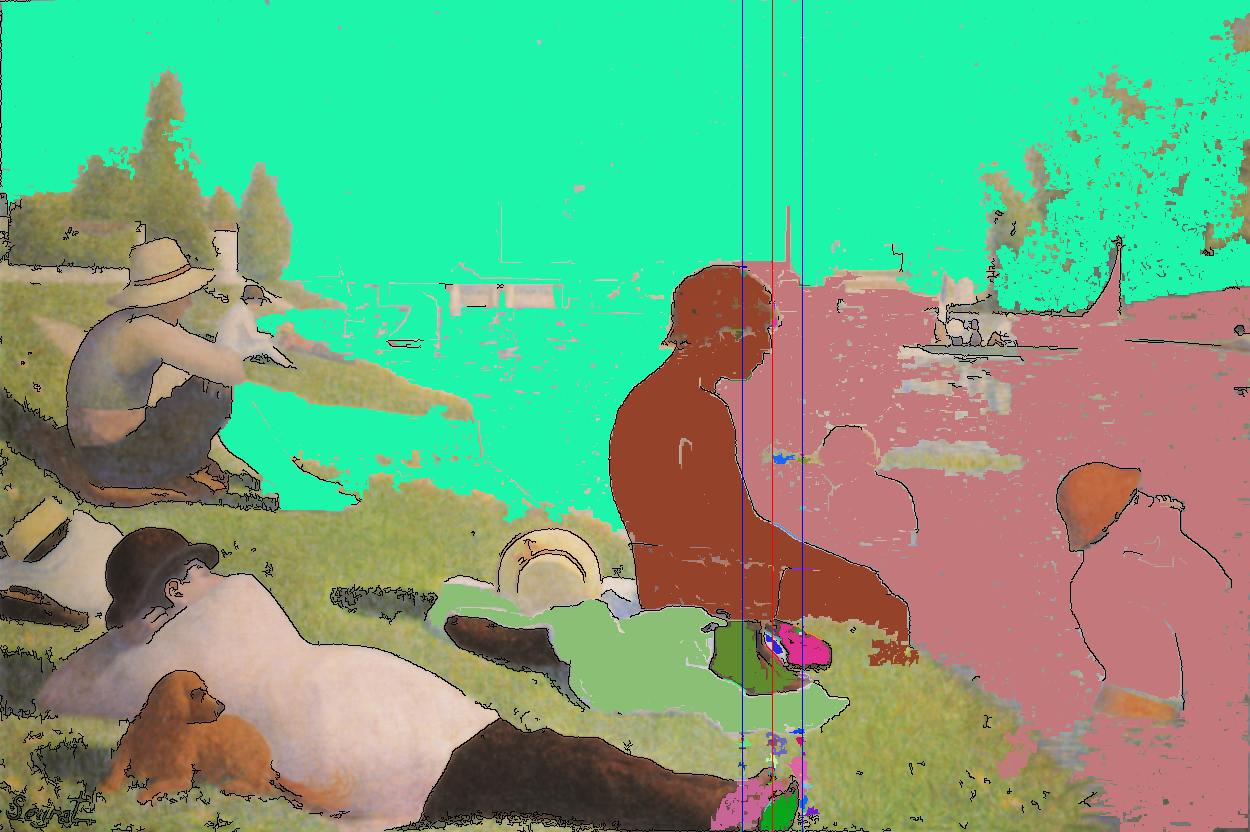
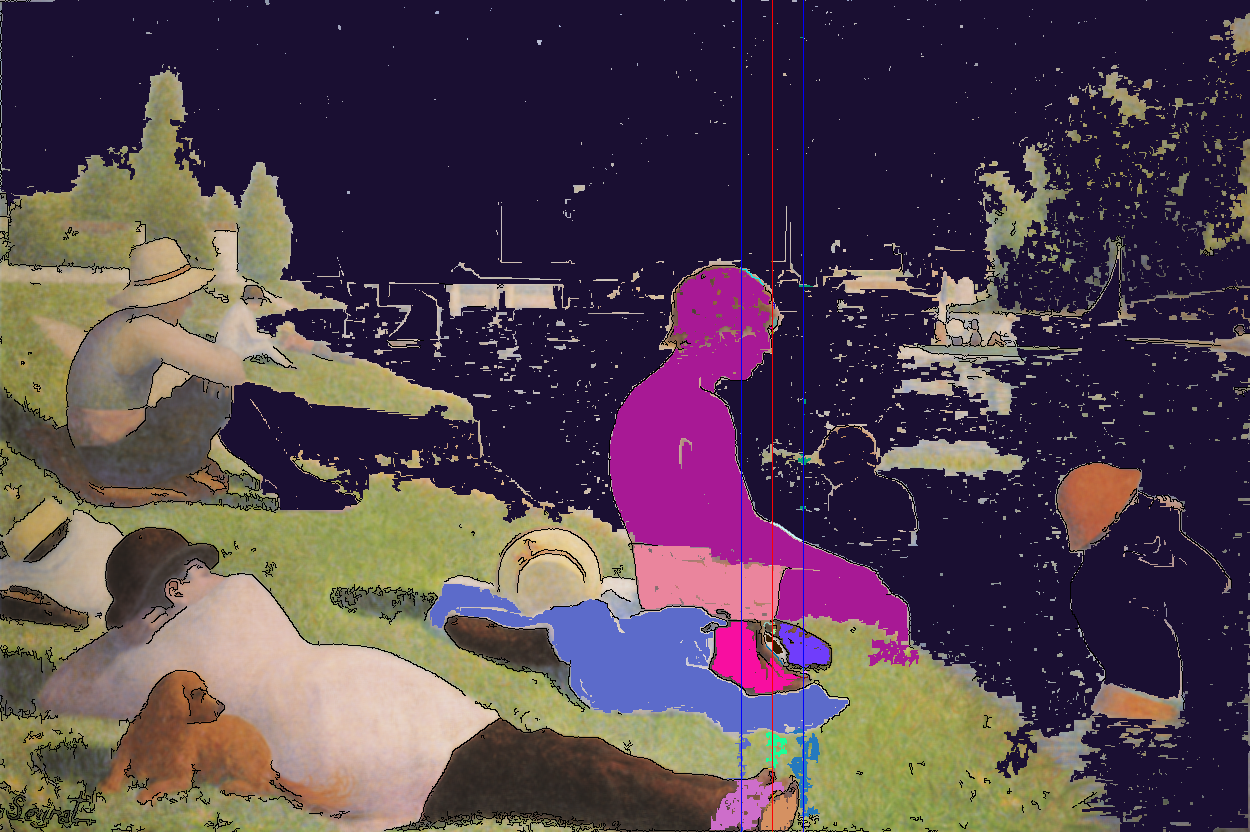
afprøvning af naive løsning, næsten færdig

diff --git a/doc/rapport/afsnit/afprovning/naive_losning.tex b/doc/rapport/afsnit/afprovning/naive_losning.tex
@@ -1,7 +1,3 @@
-test på test billeder
-test masse
-
-
 I dette sektion vil vi teste den naive løsning, ved at se om den sortere
 de rigtige regioner væk og om løsningen opføre sig på samme måde som vi
 har håbet på. Det vil vi gøre ved ført at se på nogle fabrikeret test
@@ -10,143 +6,78 @@ efter vil vi teste på malerierne for at se om den naive løsning kan
 bruges i praktisk.
   
 \subsection{Afprøvning på test billeder}
-Vi vil teste på de samme billeder som var i \ref{region_detektor_test} XX(og måske nogle flere) 
+Vi vil teste på de samme billeder som var i figur
+\ref{region_detektor_test}, samt nogle af de test billeder som blev
+brugt i forklaringen af den naive metodes, de 4 billeder som vi har valt
+at test kan se i figur \ref{naiv_detektion_test} hvor en grån kasse
+rundt om en region, betyder at den er valt til at ligge i det gyldne
+snit af den naive metode. Det første billedet \ref{naiv_blob1}, har 5
+regioner og hvor 3 af dem blev fundet af reginon detektoren, vores naive
+løsning har så sorteret baggrundens regionen og den øverste region i
+snitte vær, da de begge krydser marginer og derfor ikke overholder regel
+\ref{2.2.4, c}. Det andet billedet \ref{naiv_blob2}, er alle blevet
+sorteret vær, også den lille region som ligger lige i miden af snittet.
+Grunde til det er at den er for lille og derfor ikke overholder regel
+\ref{2.2.4, a}. I test billedet \ref{naive_hoisont1}, sortere algoritmen
+himlen fra, da den krydser margin lidt, men tager jorden med. I test
+billedet \ref{naive_masse} er der kun en af den 3 regioner som ikke
+bliver sorteret væk, grunden til at den nederste region ikke bliver
+tager med er at den ikke har en masse der er stor nok, som forklaret i
+\ref{2.2.3} og derfor ikke overholder regel \ref{2.2.4 b}. Alle de test
+billeder som vi har vist her opføre sig præcist på den måde som vi havde
+regnet med.
 
-\subsection{Afprøvning på malerier}
-Nå et billedet bearbejdes, i vores program, er der 2 naturlige steder
-hvor det vil være fornuftige at se hvad der sker. Det første er efter vi har
-iteraret hen over et af de 4 cut og fundet alle de regioner som ligger
-på eller lige omkring snittet.
-
-\begin{figure}[h!!]
-	\begin{center}
-		\includegraphics[scale=0.42,angle=0]{afsnit/afprovning/billeder/floodfillbilledet.png}
-	\end{center}
-	\caption[]{Billedet hvor vores algoritme har fundet x antal regioner, margin er sat til 0.9\% og floodfils up,dawn er sat til 4}
-	\label{ff}
-\end{figure}
-
-I billedet \ref{ff} er vær region, indtegnet med vær sin farve, og snittet
-som er beregnet ud fra er det horisontale gyldne snit som ligger mest
-til højre. Som man kan se finder algoritmen en masse regioner, hvor
-nogle af dem er ret spændene at se på, som f.eks. drengen som er farvet
-helt lyserød. Der bliver også fundet en masse regioner som ikke er
-særlige spændene, f.eks. helle baggrunden som er malet mørkelilla i
-billedet. Som man kan af billedet, er der ikke særlige mange regioner, i
-selve snittet som bliver tværet ud og kommer til at falde i et med et af
-de andre regioner i billedet, det er et godt tegn, da sammensmeltningen af
-regioner vil give en forkert fortolkning af billedet.
-
-Det andet naturlige sted at se på, er nå vi tager alle de regioner som
-blev fundet og sortere, dem fra, som ikke passer overens med vores
-definition, af om regionen ligger i snittet. De regionerne som er taget
-med, bliver inremmet i en bos og kan ses på billedet \ref{ff}. 
-
-\begin{figure}[h!!]
-	\begin{center}
-		\includegraphics[scale=0.42,angle=0]{afsnit/afprovning/billeder/boindingboxbilledet.png}
-	\end{center}
-	\caption[]{Billedet de regioner som vi har tilbage, er i en box, sammen opsætning som før}
-	\label{blob}
-\end{figure}
-
-Som man kan se er der kun 1 region tilbage, som omkredser en sko i
-billedet. Men tilgængel er alle de store regioner så som baggrunden og
-græsset ikke blevet taget med. Det kan både siges at være godt og skidt.
-det gode er at vi nu har en god ide om, hvad der bliver fundet. hvis vi
-samme liner vores beskrivelse af vores fremgangsmåde, og hvordan
-billedet ser ud. Stemmer det over ens, så vores algoritme virker skulle
-virke. Det dårlige er, at vi fjerner ret meget. F.eks. kunne drengen
-være en region som man gerne vil have med.
-I alle de billeder som vi viser her, er floodfills up,dawn værdiger sat
-til 4, dog variere margin noget, thressholdet for edge detection er sat
-til 78 og 195.
-
-\begin{figure}[h!!]
-	\begin{center}
-		\includegraphics[scale=0.40,angle=0]{afsnit/afprovning/billeder/BBcomposa.png}
-	\end{center}
-	\caption[]{billedet med 2 ragioner i snittet, margin = 2.5 \%}
-	\label{BBcomposa}
-\end{figure}
-
-\begin{figure}[h!!]
-	\begin{center}
-		\includegraphics[scale=0.40,angle=0]{afsnit/afprovning/billeder/FFcomposa.png}
-	\end{center}
-	\caption[]{De 2 ragioner som er fundet før, er 2 sorte plamasier i
-	billedet. Margin = 2.5\%}
-	\label{FFcomposa}
-\end{figure}
-
-\begin{figure}[h!!]
-	\begin{center}
-		\includegraphics[scale=0.20,angle=0]{afsnit/afprovning/billeder/nicofloodfillbilledet.png}
-	\end{center}
-	\caption[]{En stor ragion på billedet, som forkommer da dette
-	billedet er falmet med tiden eller bare ikke har høj nok farve
-	intentitet. Margin = 0.9\%}
-	\label{nicofill}
-\end{figure}
-
-\subsection{Eksampel 4}
-\begin{figure}[h!!]
-	\begin{center}
-		\includegraphics[scale=0.30,angle=0]{afsnit/afprovning/billeder/BB1annunc2.png}
-	\end{center}
-	\caption[]{Hånd, glorie og hå er fundet, samt noget ekstre klæde.
-	margin = 0.9\%}
-	\label{BB1annunc2}
-\end{figure}
-
-\begin{figure}[h!!]
-	\begin{center}
-		\includegraphics[scale=0.30,angle=0]{afsnit/afprovning/billeder/BB09crucif.png}
-	\end{center}
-	\caption[]{Svanen fundet samt skildet som er 2 ting som trader fram
-	i maleriet, margin = 2.5\%}
-	\label{BB09crucif}
-\end{figure}
-
-\begin{figure}[h!!]
-	\begin{center}
-		\includegraphics[scale=0.3,angle=0]{afsnit/afprovning/billeder/FFadorat.png}
-	\end{center}
-	\caption[]{Runde billeder med ramme kan skabe problemer, da vi ikke
-	er sikre på at det er det rigtige snit som vi arbejder på. Margin =
-	2.5\%}
-	\label{FFadorat}
+\begin{figure}[!h]
+    \centering
+		\subfloat[Naive algoritme finder 1 ud af 5 regioner]{
+        	\includegraphics[angle=0,width=0.55\textwidth]{afsnit/afprovning/billeder/naive_losning/naiv_blob1.png}
+        	\label{naiv_blob1}}\hspace{1em}
+    		\subfloat[Værgen den lille region eller den store er fundet]{
+	        	\includegraphics[angle=0,width=0.55\textwidth]{afsnit/afprovning/billeder/naive_losning/naiv_blob2.png}
+	       	\label{naiv_blob2}}\hspace{1em}
+    		\subfloat[Kun den nederste højrisondt er fundet]{
+	        	\includegraphics[angle=0,width=0.55\textwidth]{afsnit/afprovning/billeder/naive_losning/naiv_hoisont1.png}
+		    \label{naiv_hoisont1}}\hspace{1em}
+		    \subfloat[2 regioner hvor den ende er sorteret vær på grund af dens masse]{
+	        	\includegraphics[angle=0,width=0.55\textwidth]{afsnit/afprovning/billeder/naive_losning/naiv_mass.png}
+	       	\label{naiv_masse}}\hspace{1em}
+        \caption[]{4 test billeder som også blev brugt til at illustrere den naive løsnings fremgangs måde, grån kasse rund om region, betyder at den er taget med af dem naive løsning}
+     \label{naiv_detektion_test}
 \end{figure}
 \clearpage
-\begin{figure}[h!!]
-	\begin{center}
-		\includegraphics[scale=0.50,angle=0]{afsnit/afprovning/billeder/BBallegory.png}
-	\end{center}
-	\caption[]{Ingen ting fundet, ingen ting at finde. Margin = 2.5\%}
-	\label{BBallegory}
-\end{figure}
 
-\begin{figure}[h!!]
-	\begin{center}
-		\includegraphics[scale=0.35,angle=0]{afsnit/afprovning/billeder/BBCarruingcut2.png}
-	\end{center}
-	\caption[]{I dette billedet finder vi 3 ragioner som ligger i det
-	gyldne snit, 2 hovder som svare over ens med det vi gerne villle
-	finde, og så en arm}
-	\label{BBCarruingcut2}
-\end{figure}
+\subsection{Afprøvning på malerier}
+For at se på hvordan den naive metode virker på malerier afprøver vi den
+på 6 malerier, først på 3 malerier, hvor regions detektoren virker
+efter vores hensigt og så på 3 malerier, hvor region detektoren ikke
+virker. Beskrivelsen af hvad der sker i billedet vil stå i caption
 
 
 \begin{figure}[h!!]
 	\begin{center}
-		\includegraphics[scale=0.50,angle=0]{afsnit/afprovning/billeder/BBMonalisacut1.png}
+		\includegraphics[scale=0.3,angle=0]{afsnit/afprovning/billeder/naive_losning/naiv_kfarver_sdetaljer.png}
 	\end{center}
-	\caption[]{Monalisa med ved cut 1 , hvor der bliver fundet hindes
-	overbryst og hindes pande. margin  = 2.5\%}
-	\label{BBMonalisacut1}
+	\caption[]{5 ud af de 6 store regioner fra figur \ref{GRD_virker1} valt til at ligge i snittet skoende er få små til at blive taget i betragtning}
+	\label{naiv_kfarver_sdetaljer}
 \end{figure}
 
+\begin{figure}[h!!]
+	\begin{center}
+		\includegraphics[scale=0.3,angle=0]{afsnit/afprovning/billeder/naive_losning/naiv_mfarver_mdetaljer.png}
+	\end{center}
+	\caption[]{}
+	\label{naiv_mfarver_mdetaljer}
+\end{figure}
 
+\begin{figure}[h!!]
+	\begin{center}
+		\includegraphics[scale=0.3,angle=0]{afsnit/afprovning/billeder/naive_losning/naiv_kfarver_kdetaljer.png}
+	\end{center}
+	\caption[]{}
+	\label{naiv_kfarver_kdetaljer}
+\end{figure}
+
+\clearpage
 \subsection{hvad kan vi gøre bedre}
 I det første billedet \ref{ff}, mener vi at den ting som virkelige kan
 forbedre måde vores metode arbejder på. Er ved at ændre på den

diff --git a/src/lib/graphicHelper.py b/src/lib/graphicHelper.py
@@ -110,12 +110,13 @@ def main():
 	thickness = 4
 	settings.setMarginPercentage(0.025)
 	cut = int(sys.argv[2])
+	winname = sys.argv[3]+".png"
 	#settings.setThresholds(100,150)
 	# Set the color for the boxes
-	color = lib.COL_BLACK
+	#color = lib.COL_BLACK
 	#color = lib.COL_WHITE
 	#color = lib.COL_RED
-	#color = lib.COL_GREEN
+	color = lib.COL_GREEN
 	#color = lib.COL_BLUE
 
 	blobImg = blobResult(image, settings, cut)
@@ -134,11 +135,11 @@ def main():
 	else:
 		cv.cvLine(boxxImg, cv.cvPoint(cutt.getPoints()[0].x, cutPixel), cv.cvPoint(cutt.getPoints()[1].x, cutPixel), lib.COL_RED)
 	# Save images
-	#highgui.cvSaveImage('floodfillbilledet.png', blobImg)
-	#highgui.cvSaveImage('boindingboxbilledet.png', boxxImg)
+	highgui.cvSaveImage('floodfillbilledet.png', blobImg)
+	highgui.cvSaveImage(winname, boxxImg)
 
 	# Show images
-	compareImages(blobImg, boxxImg, "blob", "bounding box")
+	compareImages(blobImg, boxxImg, "blob", winname)
 
 if __name__ == "__main__":
 	main()
